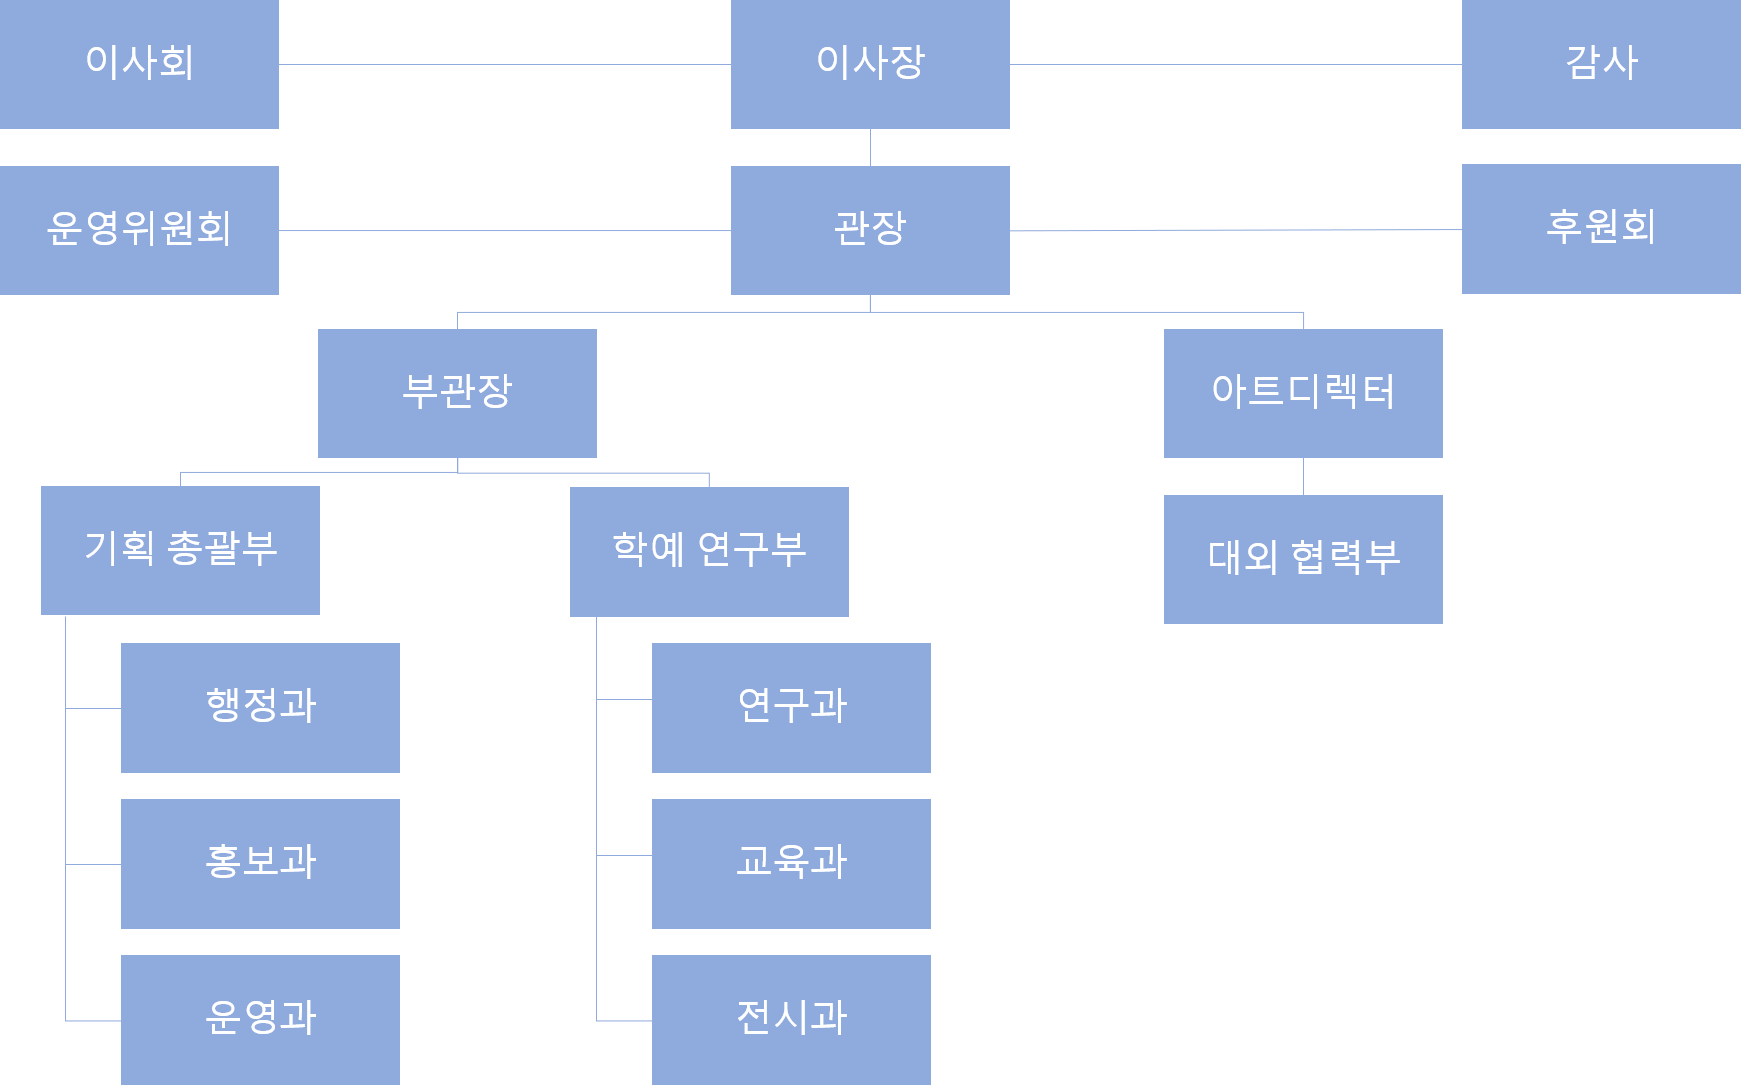
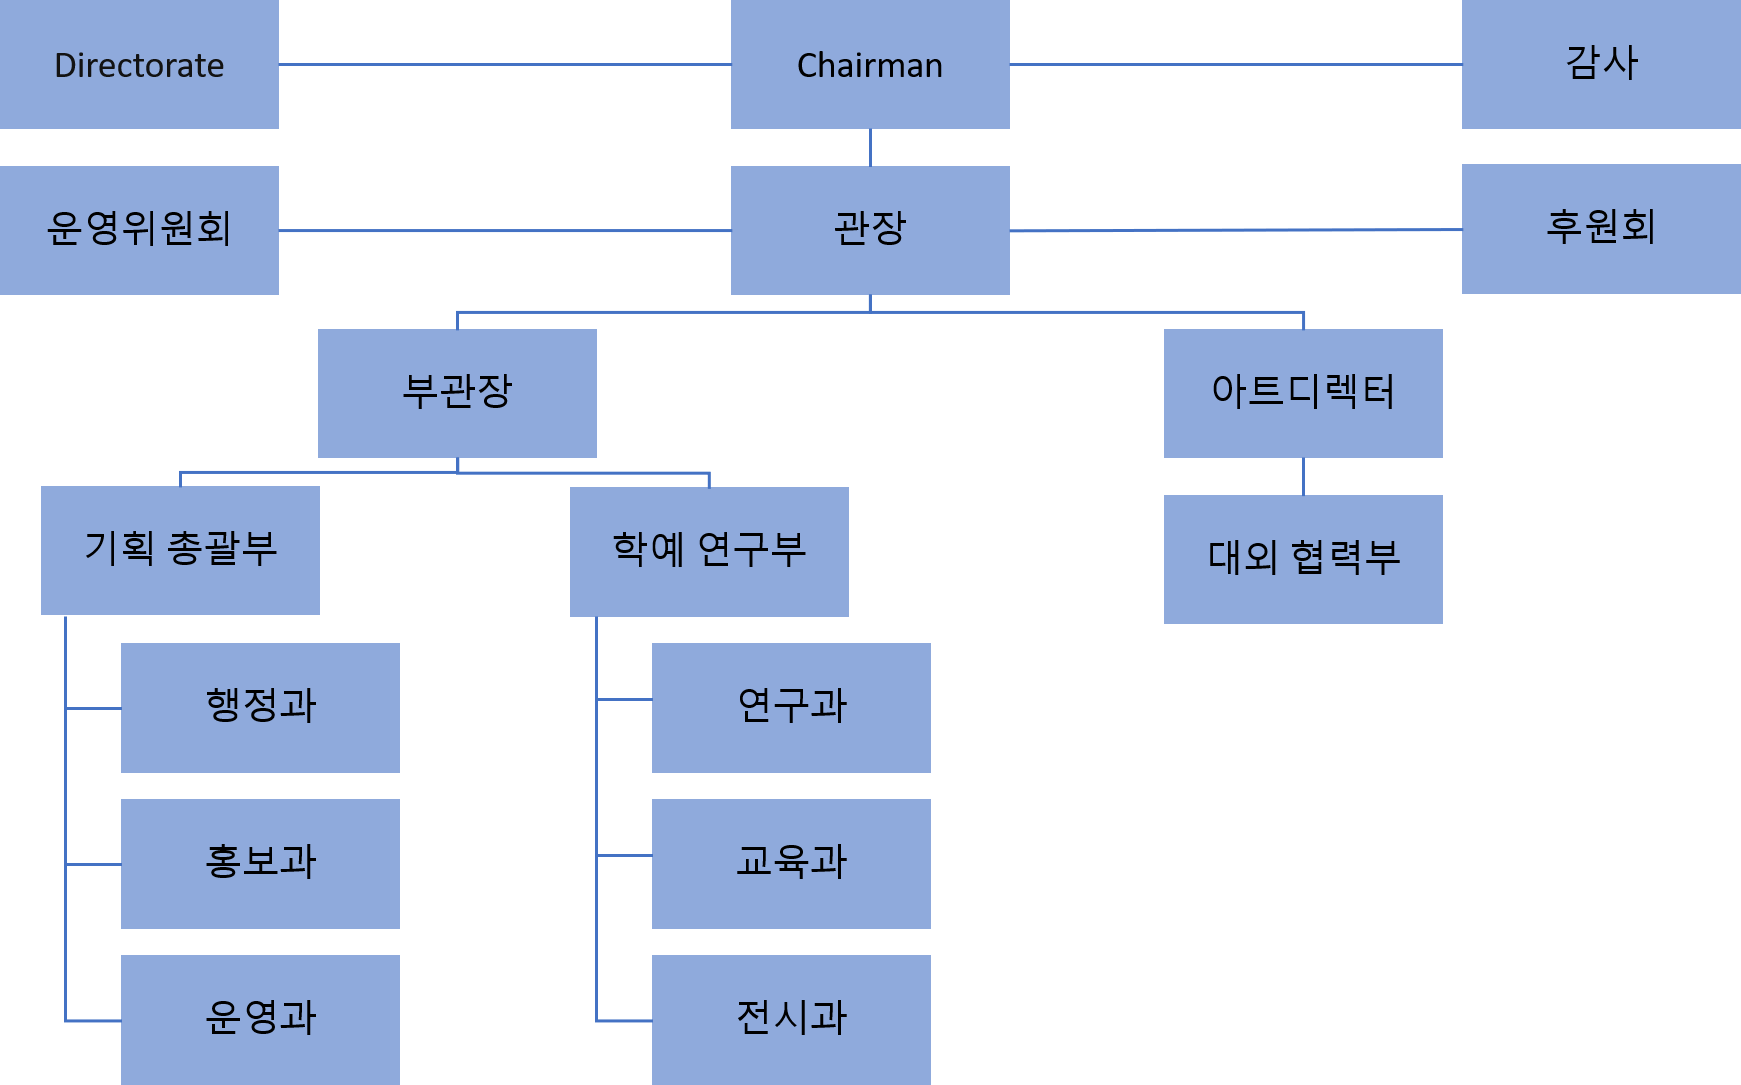
Add files via upload

diff --git a/html/e-organization.html b/html/e-organization.html
@@ -53,7 +53,7 @@
             </div>
             <div id="hi">
                 <h2>Organization</h2>
-                <img src="../images/organization.png" width="70%" height="80%"/>
+                <img src="../images/eng_organization.png" width="70%" height="80%"/>
             </div>
         </div>
     </div>
